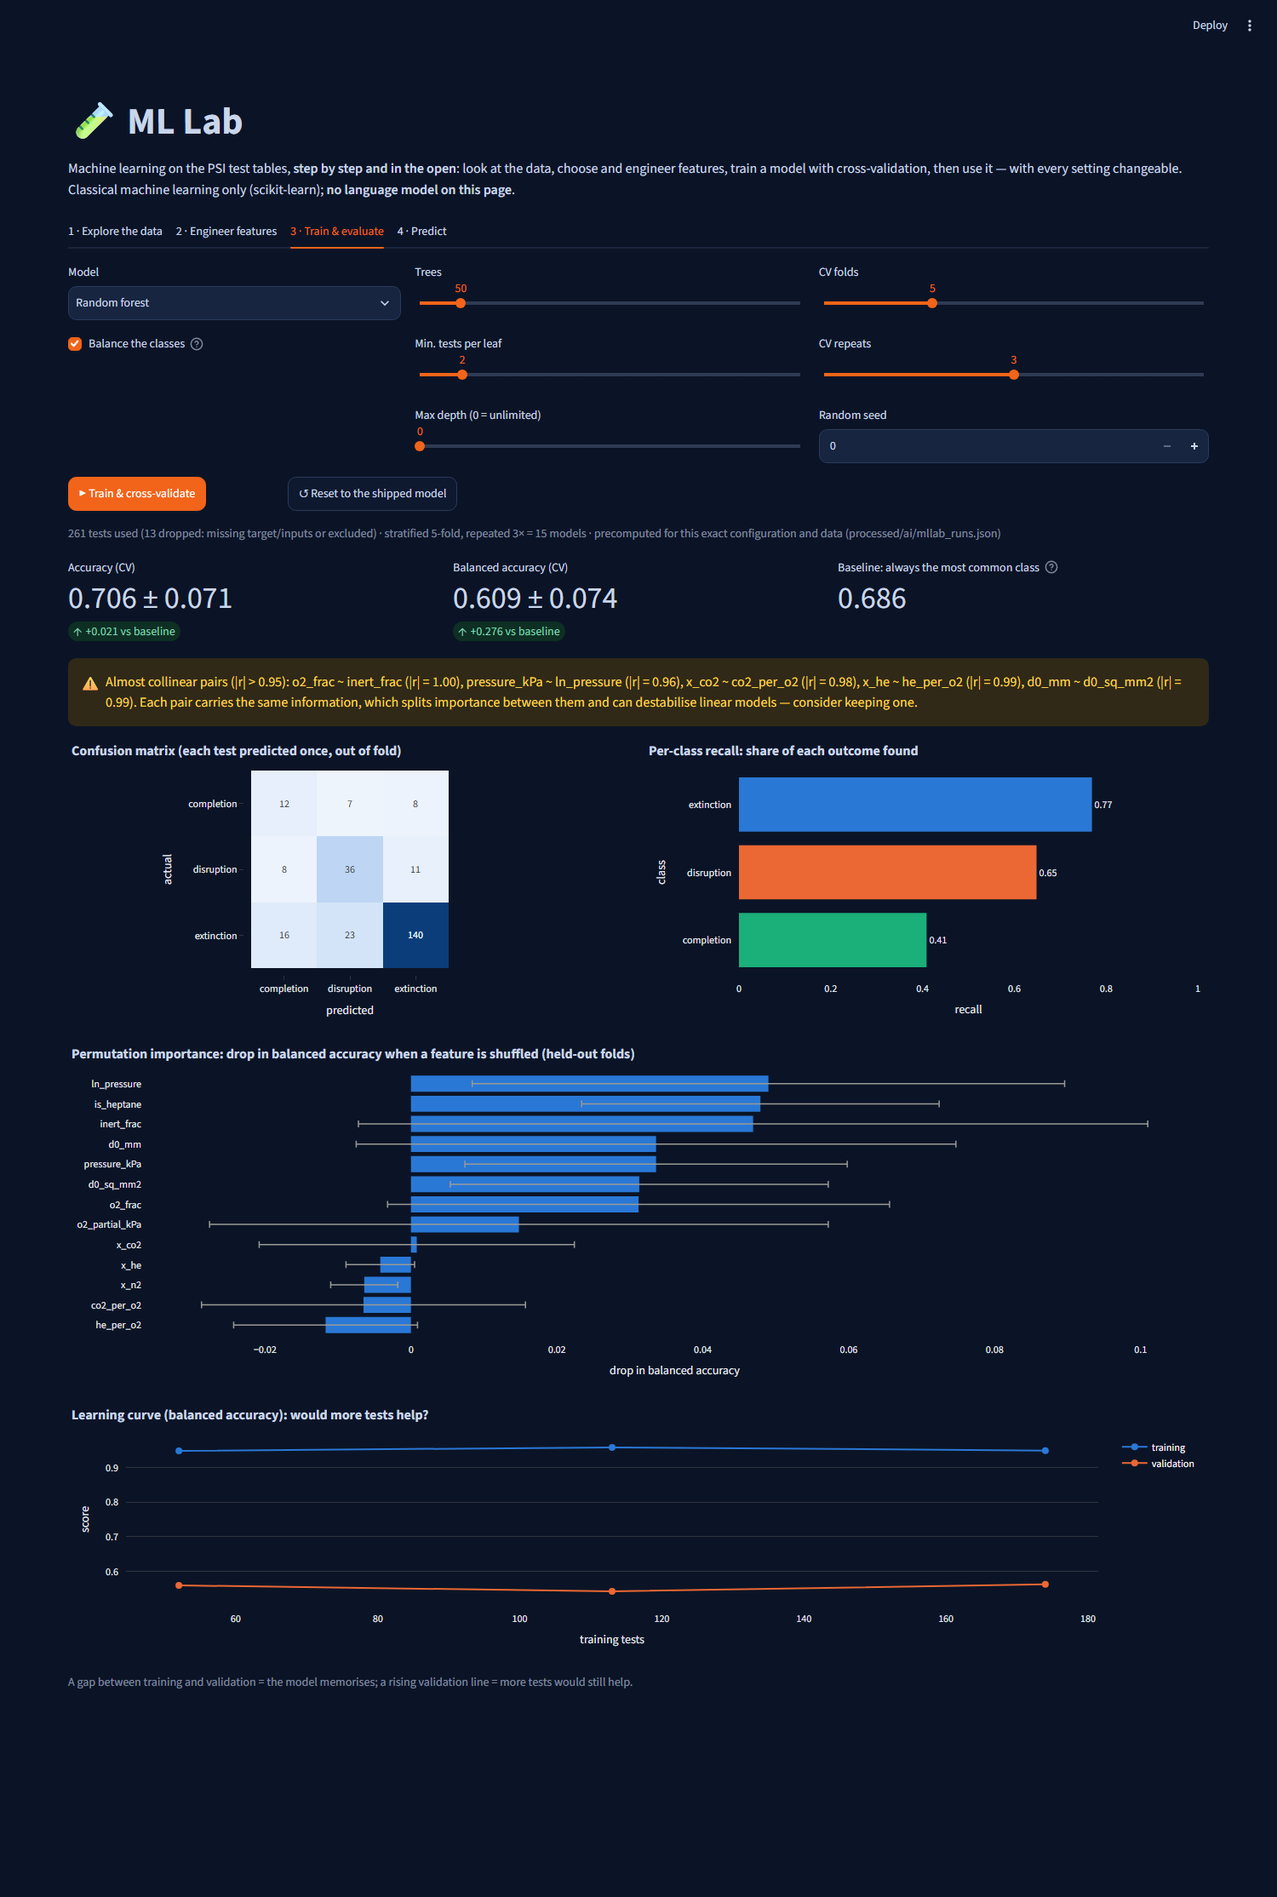
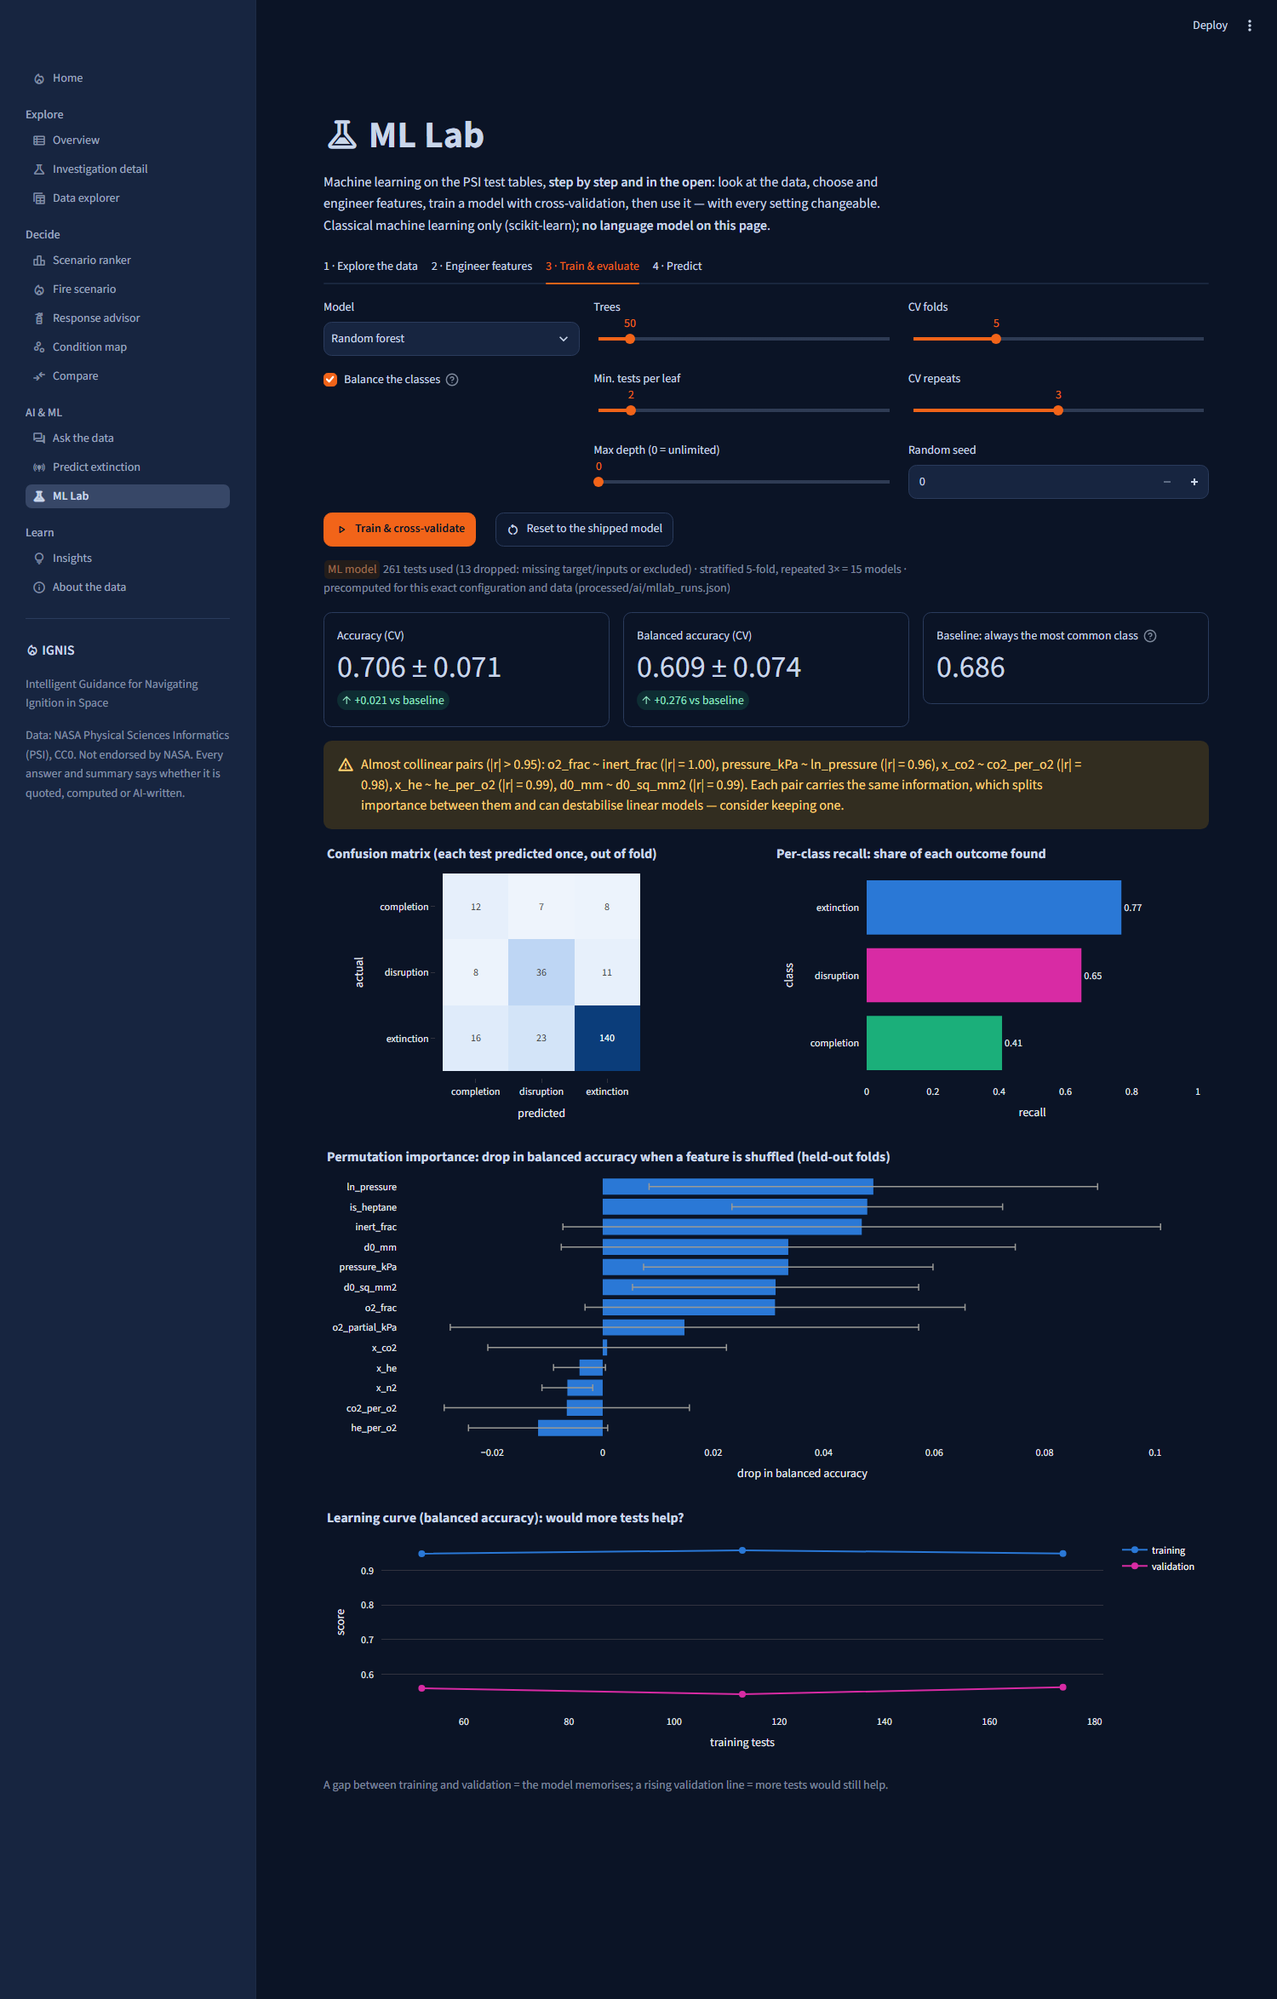
pc2: ML Lab page on the shared UI kit (app/ui.py)
- page_header with the ML Lab Material icon, ui.section headings, ui.callout
  for scope (limit), refusals + LEAKAGE DEMO (alert), warnings, notes;
  ui.table for catalog / preview / history / nearest tests; ui.metric_card;
  ui.source_link for the DOI; provenance badges (computed for data, ML model
  for scores and predictions); Material icons on buttons (no emoji)
- data colours from the kit (flame orange is the accent only): FLEX outcomes
  use ui.OUTCOME_COLOURS like Predict extinction; theme-aware diverging midpoint
  and marker outlines (ui.is_dark / chart_theme)
- result metrics keep their 'vs baseline' delta in the bordered card look
- screenshots retaken from the full app (/ml_lab); 6 page tests pass;
  full suite 210 passed (1 pc3 pandas-3 test -> #61)

Refs #47

diff --git a/app/views/ml_lab.py b/app/views/ml_lab.py
@@ -15,18 +15,24 @@ import streamlit as st
 
 from ai import mllab as M
 from analysis import datasets as D
-from app import data
+from app import data, ui
 
-# Colours: categorical identity uses the app's established outcome palette (views/predict.py), in fixed
-# order; magnitudes use one blue ramp; correlation uses a blue <-> red diverging pair with a grey midpoint.
-CAT = ["#2a78d6", "#eb6834", "#1baf7a", "#9b6bd6", "#d6a12a"]
+# Colours come from the UI kit (app/ui.py): flame orange is the UI accent, never a data colour. Classes use
+# the kit's data colours in fixed order (FLEX outcomes: ui.OUTCOME_COLOURS, as on Predict extinction);
+# magnitudes one blue ramp; correlation a blue <-> red diverging pair with a theme-neutral midpoint.
+CAT = [ui.BLUE, ui.MAGENTA, ui.AQUA]
 SEQ = [[0.0, "#eef4fc"], [0.5, "#7fb0ea"], [1.0, "#0b3d7a"]]
-DIV = [[0.0, "#2a78d6"], [0.5, "#383835"], [1.0, "#e0484b"]]
+DIV = [[0.0, ui.BLUE], [0.5, "#383835" if ui.is_dark() else "#f0efec"], [1.0, ui.RED]]
 KIND_LABEL = {"raw": "Raw — set before the test", "engineered": "Engineered — computed from raw columns",
               "pi_derived": "Published by the investigators", "post_test": "Measured during/after the test"}
 PLOT_CFG = {"displayModeBar": False}
 ss = st.session_state
 ss.setdefault("ml_history", [])
+
+
+def _metric(where, *args, **kwargs):
+    """st.metric in the kit's bordered-card look, keeping the 'vs baseline' delta ui.metric_card lacks."""
+    where.metric(*args, border=True, **kwargs)
 
 
 def _layout(fig, h=300, **kw):
@@ -48,10 +54,10 @@ def _reset_to_shipped():
                "ml_repeats": cfg["cv"]["repeats"], "ml_seed": cfg["cv"]["seed"]})
 
 
-st.title("🧪 ML Lab")
-st.markdown("Machine learning on the PSI test tables, **step by step and in the open**: look at the data, choose "
-            "and engineer features, train a model with cross-validation, then use it — with every setting "
-            "changeable. Classical machine learning only (scikit-learn); **no language model on this page**.")
+ui.page_header("ML Lab", "Machine learning on the PSI test tables, **step by step and in the open**: look at the data, "
+               "choose and engineer features, train a model with cross-validation, then use it — with every setting "
+               "changeable. Classical machine learning only (scikit-learn); **no language model on this page**.",
+               ui.ICONS["ml_lab"])
 
 tab_explore, tab_features, tab_train, tab_predict = st.tabs(
     ["1 · Explore the data", "2 · Engineer features", "3 · Train & evaluate", "4 · Predict"])
@@ -70,13 +76,12 @@ with tab_explore:
     tmeta = spec["targets"][target]
     task = tmeta["type"]
     # colour follows the class, never its rank: one fixed colour per class, in the dataset's class order
-    # (FLEX outcome: extinction blue, disruption orange, completion green — as on the Predict page)
     CLASS_ORDER = [M.class_label(ds, target, c) for c in tmeta.get("classes", [])]
-    CLASS_COLORS = {c: CAT[i % len(CAT)] for i, c in enumerate(CLASS_ORDER)}
+    CLASS_COLORS = {c: ui.OUTCOME_COLOURS.get(c, CAT[i % len(CAT)]) for i, c in enumerate(CLASS_ORDER)}
     ORDERS = {"class": CLASS_ORDER, "_y": CLASS_ORDER}
     src = spec["source"]
-    st.markdown(f"**{spec['title']}** · data: PSI [{src['psi_id']} · DOI {src['doi']}]({data.doi_url(src['doi'])})")
-    st.info(f"**Scope:** {spec['scope']}", icon="🎯")
+    st.markdown(f"**{spec['title']}** · data: PSI {ui.source_link(src['doi'], src['psi_id'] + ' · DOI ' + src['doi'])}")
+    ui.callout("limit", f"**Scope:** {spec['scope']}")
     st.caption(f"Target `{target}`: {tmeta['note']}")
 
     df = D.load(ds)
@@ -84,10 +89,12 @@ with tab_explore:
     cat = M.catalog(ds)
     numeric = [f["name"] for f in D.feature_catalog(ds) if f["unit"] != "category" and f["name"] in df.columns]
     m1, m2, m3, m4 = st.columns(4)
-    m1.metric("Tests (rows)", summ["rows"])
-    m2.metric(f"Rows with a known `{target}`", summ["targets"][target]["n"])
-    m3.metric("Missing values (all features)", sum(summ["missing"].values()))
-    m4.metric("Rows with ETL corrections", summ["rows_with_corrections"])
+    ui.metric_card(m1, "Tests (rows)", summ["rows"])
+    ui.metric_card(m2, f"Rows with a known `{target}`", summ["targets"][target]["n"])
+    ui.metric_card(m3, "Missing values (all features)", sum(summ["missing"].values()))
+    ui.metric_card(m4, "Rows with ETL corrections", summ["rows_with_corrections"])
+    ui.provenance_label("computed", "Counts and charts below are computed from the PSI test tables "
+                                    "(analysis.datasets, built from processed/tests.csv).")
     st.caption("Small data: a few hundred tests. Every score on this page is cross-validated and shown next to a "
                "baseline that knows nothing about the conditions.")
 
@@ -134,18 +141,18 @@ with tab_explore:
         fig = px.scatter(sc, x=sx, y=sy, color="_y" if task == "classification" else None,
                          color_discrete_map=CLASS_COLORS, category_orders=ORDERS, hover_data=["test_id"], opacity=0.75,
                          title=f"{sy} vs {sx}, coloured by {target}" if task == "classification" else f"{sy} vs {sx}")
-        fig.update_traces(marker=dict(size=8, line=dict(width=1, color="#1a1a19")))
+        fig.update_traces(marker=dict(size=8, line=dict(width=1, color=ui.chart_theme()["neutral_line"])))
         st.plotly_chart(_layout(fig, 340), width="stretch", config=PLOT_CFG)
         if ds == "cfig" and "o2_frac" in (sx, sy):
             st.caption("⚠ `o2_frac` of **inverse** flames is the O₂ in the burner stream, not an atmosphere "
                        "(`o2_role = burner`).")
 
-    st.markdown("##### Feature catalog")
-    st.dataframe(pd.DataFrame([{"feature": f["name"], "kind": f["kind"], "unit": f["unit"], "formula": f["formula"],
+    ui.section("Feature catalog")
+    ui.table(pd.DataFrame([{"feature": f["name"], "kind": f["kind"], "unit": f["unit"], "formula": f["formula"],
                                 "why": f["why"],
                                 "leaks the answer": ("yes — measured during/after the test" if f["kind"] == "post_test"
                                                      else ("for " + ", ".join(f["leak"]) if f.get("leak") else ""))}
-                               for f in D.feature_catalog(ds)]), hide_index=True, width="stretch")
+                               for f in D.feature_catalog(ds)]), width="stretch")
 
 # ====================================================================== 2. features
 with tab_features:
@@ -186,17 +193,17 @@ with tab_features:
 
     refused = M.check_features(ds, target, features)
     if refused and not leak_demo:
-        st.error("**Refused — these features leak the answer:** " +
-                 "; ".join(f"`{r['feature']}` ({r['reason']})" for r in refused) +
-                 ". Untick them, or tick *Show me what leakage does* to see the effect.", icon="🚫")
+        ui.callout("alert", "**Refused — these features leak the answer:** " +
+                   "; ".join(f"`{r['feature']}` ({r['reason']})" for r in refused) +
+                   ". Untick them, or tick *Show me what leakage does* to see the effect.")
     elif refused:
-        st.error("**LEAKAGE DEMO** — the selected features include information measured after the test. "
-                 "Scores will look excellent and mean nothing.", icon="🧪")
+        ui.callout("alert", "**LEAKAGE DEMO** — the selected features include information measured after the test. "
+                            "Scores will look excellent and mean nothing.")
 
     if features:
-        st.markdown("##### Feature matrix preview (first rows)")
+        ui.section("Feature matrix preview (first rows)")
         prev = df[["test_id"] + features + [target]].dropna(subset=[target])
-        st.dataframe(prev.head(8), hide_index=True, width="stretch")
+        ui.table(prev.head(8), width="stretch")
         mi = M.mutual_information(ds, target, features)
         if mi:
             mdf = pd.DataFrame(mi)
@@ -207,7 +214,7 @@ with tab_features:
             st.plotly_chart(_layout(fig, 60 + 26 * len(mdf)), width="stretch", config=PLOT_CFG)
             st.caption("Univariate only: a feature with little signal alone can still help in combination.")
     else:
-        st.warning("Select at least one feature.")
+        ui.callout("warning", "Select at least one feature.")
 
 # ====================================================================== 3. train
 with tab_train:
@@ -251,12 +258,13 @@ with tab_train:
               "cv": {"folds": int(folds), "repeats": int(repeats), "seed": int(seed)}, "leakage_demo": bool(leak_demo)}
     blocked = (refused and not leak_demo) or not features
     b1, b2, _ = st.columns([1, 1.3, 3])
-    train = b1.button("▶ Train & cross-validate", type="primary", key="ml_train", disabled=bool(blocked))
-    b2.button("↺ Reset to the shipped model", key="ml_reset", on_click=_reset_to_shipped,
+    train = b1.button("Train & cross-validate", type="primary", key="ml_train", disabled=bool(blocked),
+                      icon=":material/play_arrow:")
+    b2.button("Reset to the shipped model", key="ml_reset", on_click=_reset_to_shipped, icon=ui.ICONS["reset"],
               help="Loads the configuration behind the Predict-extinction page (analysis.flex_classifier).")
     if refused and not leak_demo:
-        st.error("Training is blocked: " + ", ".join(f"`{r['feature']}`" for r in refused) +
-                 " would leak the answer (see tab 2).", icon="🚫")
+        ui.callout("alert", "Training is blocked: " + ", ".join(f"`{r['feature']}`" for r in refused) +
+                            " would leak the answer (see tab 2).")
 
     res = None
     if train and not blocked:
@@ -265,7 +273,7 @@ with tab_train:
             try:
                 res = M.run(config)
             except (M.FeatureRefused, ValueError) as e:
-                st.error(f"Not trained: {e}")
+                ui.callout("alert", f"Not trained: {e}")
         if res:
             ss["ml_history"].append({
                 "#": len(ss["ml_history"]) + 1, "dataset": ds, "target": target, "model": M.MODEL_LABELS[model],
@@ -279,37 +287,36 @@ with tab_train:
     elif not blocked:
         res = M.peek(config)
         if res is None:
-            st.info("Settings changed — press **Train & cross-validate** to see how this configuration performs.")
+            ui.callout("note", "Settings changed — press **Train & cross-validate** to see how this configuration performs.")
 
     if res:
         if res["leakage_demo"]:
-            st.markdown("<div style='background:#7a1010;color:#fff;padding:10px 14px;border-radius:6px;"
-                        "font-weight:700'>LEAKAGE DEMO — these scores use information measured after the test "
-                        "and are not a real model.</div>", unsafe_allow_html=True)
+            ui.callout("alert", "**LEAKAGE DEMO** — these scores use information measured after the test "
+                                "and are not a real model.")
         how = ("precomputed for this exact configuration and data (processed/ai/mllab_runs.json)"
                if res.get("from_cache") else f"trained just now in {res['seconds']} s")
-        st.caption(f"{res['n_rows']} tests used ({res['n_dropped']} dropped: missing target/inputs or excluded) · "
-                   f"{res['cv']['scheme']} = {res['cv']['n_fits']} models · {how}")
+        ui.provenance_label("ml", f"{res['n_rows']} tests used ({res['n_dropped']} dropped: missing target/inputs or "
+                                  f"excluded) · {res['cv']['scheme']} = {res['cv']['n_fits']} models · {how}")
         k1, k2, k3 = st.columns(3)
         if task == "classification":
             acc, bacc, base = res["metrics"]["accuracy"], res["metrics"]["balanced_accuracy"], res["baseline"]
-            k1.metric("Accuracy (CV)", f"{acc['mean']:.3f} ± {acc['sd']:.3f}",
+            _metric(k1, "Accuracy (CV)", f"{acc['mean']:.3f} ± {acc['sd']:.3f}",
                       f"{acc['mean'] - base['accuracy']['mean']:+.3f} vs baseline")
-            k2.metric("Balanced accuracy (CV)", f"{bacc['mean']:.3f} ± {bacc['sd']:.3f}",
+            _metric(k2, "Balanced accuracy (CV)", f"{bacc['mean']:.3f} ± {bacc['sd']:.3f}",
                       f"{bacc['mean'] - base['balanced_accuracy']['mean']:+.3f} vs baseline")
-            k3.metric("Baseline: " + base["name"], f"{base['accuracy']['mean']:.3f}",
+            _metric(k3, "Baseline: " + base["name"], f"{base['accuracy']['mean']:.3f}",
                       help=f"Balanced accuracy of the baseline: {base['balanced_accuracy']['mean']:.3f} (chance).")
             if acc["mean"] <= base["accuracy"]["mean"]:
-                st.warning("This model does **not** beat always guessing the most common class on accuracy.")
+                ui.callout("warning", "This model does **not** beat always guessing the most common class on accuracy.")
         else:
             r2, mae, base = res["metrics"]["r2"], res["metrics"]["mae"], res["baseline"]
             unit = tmeta.get("unit", "")
-            k1.metric("R² (CV)", f"{r2['mean']:.3f} ± {r2['sd']:.3f}", f"{r2['mean'] - base['r2']['mean']:+.3f} vs baseline")
-            k2.metric(f"Mean absolute error (CV, {unit})", f"{mae['mean']:.3f} ± {mae['sd']:.3f}",
+            _metric(k1, "R² (CV)", f"{r2['mean']:.3f} ± {r2['sd']:.3f}", f"{r2['mean'] - base['r2']['mean']:+.3f} vs baseline")
+            _metric(k2, f"Mean absolute error (CV, {unit})", f"{mae['mean']:.3f} ± {mae['sd']:.3f}",
                       f"{mae['mean'] - base['mae']['mean']:+.3f} vs baseline", delta_color="inverse")
-            k3.metric("Baseline: " + base["name"], f"R² {base['r2']['mean']:.3f}", help=f"MAE {base['mae']['mean']:.3f} {unit}")
+            _metric(k3, "Baseline: " + base["name"], f"R² {base['r2']['mean']:.3f}", help=f"MAE {base['mae']['mean']:.3f} {unit}")
         for w in res["warnings"]:
-            st.warning(w, icon="⚠")
+            ui.callout("warning", w)
 
         g1, g2 = st.columns(2)
         if task == "classification":
@@ -351,9 +358,9 @@ with tab_train:
                 pass
 
     if ss["ml_history"]:
-        st.markdown("##### Run history (this session)")
-        st.dataframe(pd.DataFrame(ss["ml_history"]), hide_index=True, width="stretch")
-        if st.button("Clear history", key="ml_clear"):
+        ui.section("Run history (this session)")
+        ui.table(pd.DataFrame(ss["ml_history"]), width="stretch")
+        if st.button("Clear history", key="ml_clear", icon=ui.ICONS["clear"]):
             ss["ml_history"] = []
             st.rerun()
 
@@ -361,11 +368,11 @@ with tab_train:
 with tab_predict:
     res_now = M.peek(config) if not blocked else None
     if blocked:
-        st.info("Choose features without leakage first (tab 2).")
+        ui.empty_state("Choose features without leakage first (tab 2).")
     elif res_now is None:
-        st.info("Train this configuration first (tab 3) — predictions always come with its cross-validated error.")
+        ui.empty_state("Train this configuration first (tab 3) — predictions always come with its cross-validated error.")
     elif res_now["leakage_demo"]:
-        st.warning("No predictions in the leakage demo: the leaking features are only known after the test.")
+        ui.callout("limit", "No predictions in the leakage demo: the leaking features are only known after the test.")
     else:
         st.markdown(f"Set the inputs. The model ({M.MODEL_LABELS[model]}, trained on {res_now['n_rows']} real tests) "
                     "refuses any value outside the range that was actually tested.")
@@ -387,12 +394,14 @@ with tab_predict:
             st.caption("Engineered inputs are set directly here — keep them consistent with the raw ones "
                        "(e.g. `o2_partial_kPa` = `o2_frac` × `pressure_kPa`).")
         pr = M.predict(config, inputs)
+        ui.provenance_label("ml", f"{M.MODEL_LABELS[model]} estimate — cross-validated on real PSI tests, not a "
+                                  "physical simulation.")
         if pr["refused"]:
-            st.error(f"**No prediction:** {pr['refused']}", icon="🚫")
+            ui.callout("limit", f"**No prediction:** {pr['refused']}")
         elif task == "classification":
             probs = pd.DataFrame({"class": list(pr["probs"]), "probability": list(pr["probs"].values())})
             p1, p2 = st.columns([1, 1.3])
-            p1.metric("Most likely", pr["predicted"], f"{pr['probs'][pr['predicted']]:.0%}", delta_color="off")
+            _metric(p1, "Most likely", pr["predicted"], f"{pr['probs'][pr['predicted']]:.0%}", delta_color="off")
             p1.caption(f"Cross-validated accuracy of this configuration: {pr['cv']['accuracy']['mean']:.3f} "
                        f"(baseline {pr['cv']['baseline_accuracy']:.3f}).")
             fig = px.bar(probs, x="probability", y="class", orientation="h", color="class", text="probability",
@@ -400,9 +409,9 @@ with tab_predict:
             fig.update_traces(texttemplate="%{x:.0%}", textposition="outside", cliponaxis=False)
             p2.plotly_chart(_layout(fig, 220, showlegend=False), width="stretch", config=PLOT_CFG)
         else:
-            st.metric(f"Predicted {target}", f"{pr['value']:.3g} {pr['unit']}",
+            _metric(st, f"Predicted {target}", f"{pr['value']:.3g} {pr['unit']}",
                       f"± {pr['cv']['mae']['mean']:.3g} {pr['unit']} typical error (CV MAE)", delta_color="off")
-        st.markdown("##### The 5 most similar real tests")
-        st.dataframe(pd.DataFrame(pr["nearest"]), hide_index=True, width="stretch")
+        ui.section("The 5 most similar real tests")
+        ui.table(pd.DataFrame(pr["nearest"]), width="stretch")
         st.caption("Distance over the chosen numeric inputs after standardising each one. Check how the real "
                    "tests ended before trusting a prediction.")

diff --git a/app/tests/test_ml_lab.py b/app/tests/test_ml_lab.py
@@ -70,4 +70,4 @@ def test_reset_to_shipped_model_loads_its_features():
 def test_predict_tab_predicts_and_shows_nearest_tests():
     at = page()
     assert any(m.label == "Most likely" for m in at.metric)
-    assert any("most similar real tests" in m.value for m in at.markdown)
+    assert any("most similar real tests" in s.value for s in at.subheader)
